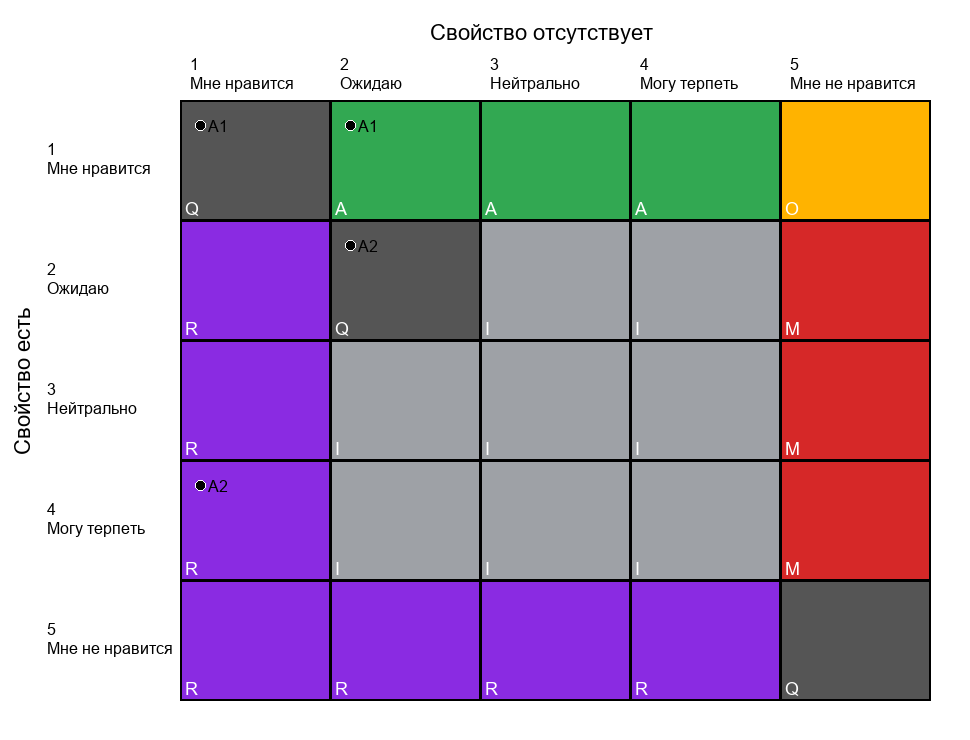
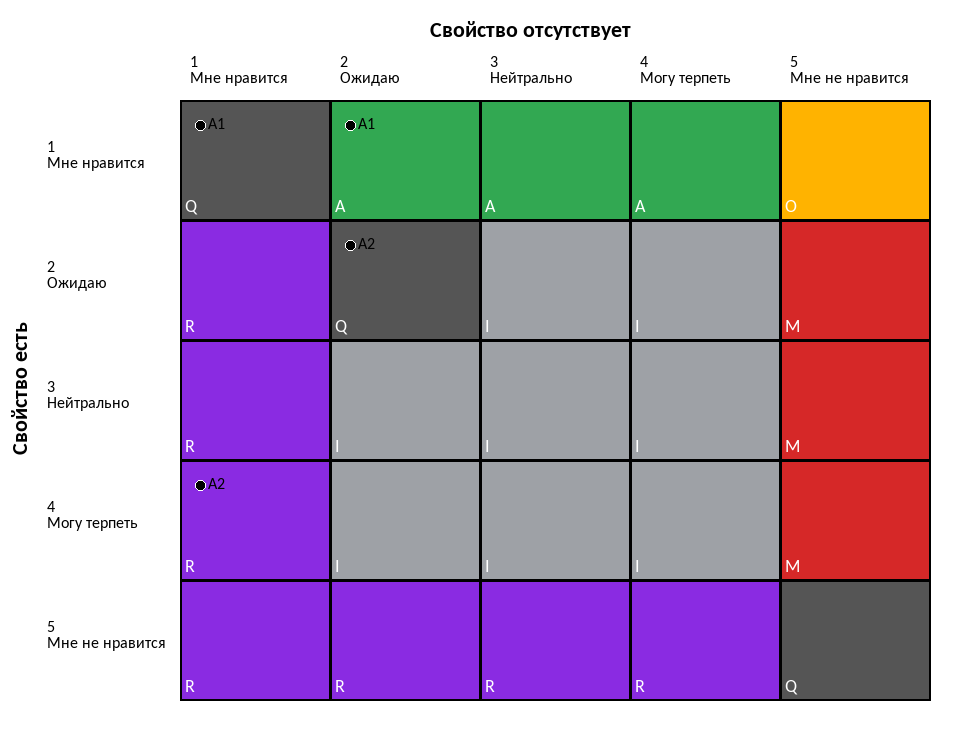
исправил отображение шрифта на графике, графические фиксы

diff --git a/webui/styles.css b/webui/styles.css
@@ -125,6 +125,18 @@ input[type="text"] {
   color: var(--ink);
 }
 
+input[type="password"] {
+  flex: 1;
+  min-width: 0;
+  border: 1px solid rgba(93, 71, 52, 0.2);
+  border-radius: 16px;
+  padding: 14px 16px;
+  font: inherit;
+  background: rgba(255,255,255,0.7);
+  color: var(--ink);
+}
+
+
 .layout {
   display: grid;
   grid-template-columns: 1fr;
@@ -168,6 +180,7 @@ input[type="text"] {
 }
 
 .empty-state {
+  margin-top: 16px;
   border: 1px dashed rgba(93, 71, 52, 0.24);
   border-radius: 22px;
   padding: 26px;

diff --git a/kano_core/chart.py b/kano_core/chart.py
@@ -28,9 +28,9 @@ def create_matrix_chart(
     draw = ImageDraw.Draw(img)
 
     try:
-        font_header = ImageFont.truetype("arial.ttf", 22)
-        font_cell = ImageFont.truetype("arial.ttf", 16)
-        font_label = ImageFont.truetype("arial.ttf", 18)
+        font_header = ImageFont.truetype("/usr/share/fonts/truetype/crosextra/Carlito-Bold.ttf", 22)
+        font_cell = ImageFont.truetype("/usr/share/fonts/truetype/crosextra/Carlito-Regular.ttf", 16)
+        font_label = ImageFont.truetype("/usr/share/fonts/truetype/crosextra/Carlito-Regular.ttf", 18)
     except Exception:
         font_header = font_cell = font_label = ImageFont.load_default()
 
